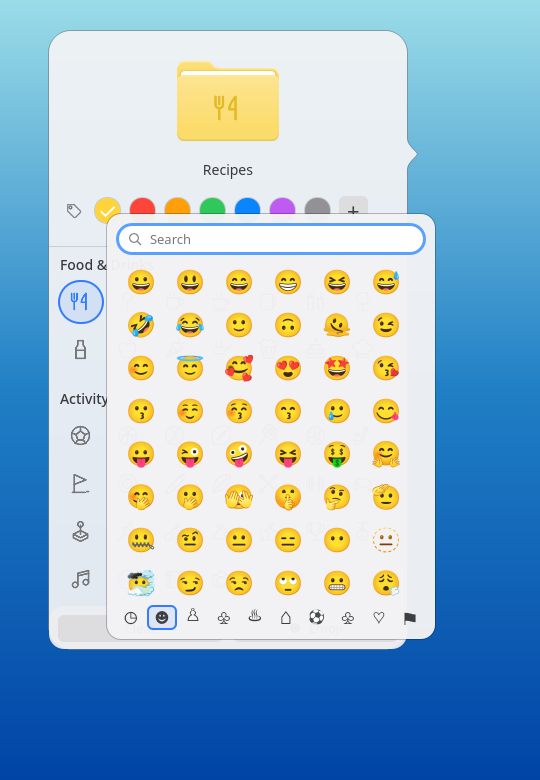
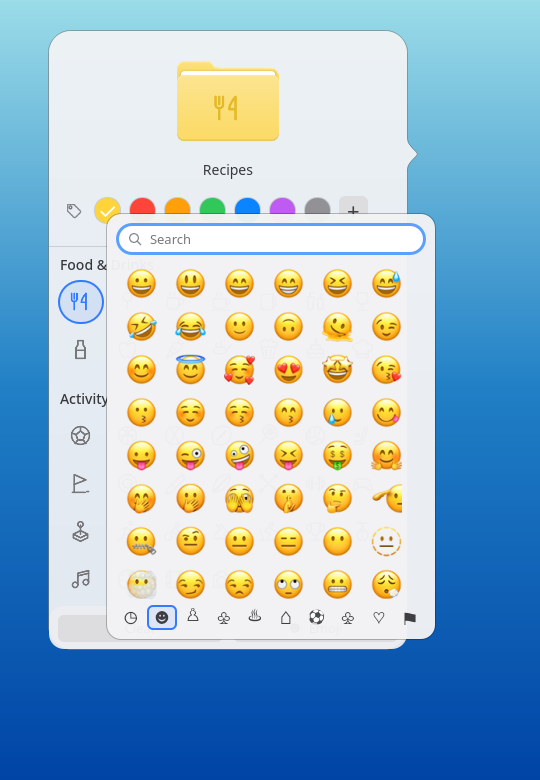
Use installed Apple emoji consistently in folder customization

diff --git a/config/quickshell/folder-customizer/FolderCustomizer.qml b/config/quickshell/folder-customizer/FolderCustomizer.qml
@@ -11,6 +11,8 @@ FocusScope {
     required property string folderPath
     property bool dark: false
     property string fontFamily: "sans-serif"
+    property string emojiFontFamily: Qt.fontFamilies().indexOf("Apple Color Emoji") >= 0 ? "Apple Color Emoji" : "Noto Color Emoji"
+    property url emojiFontUrl: ""
     property real pointerY: 124
     property bool tailOnLeft: false
     property real availableWidth: width + 58
@@ -85,6 +87,8 @@ FocusScope {
         event.accepted = true;
     }
 
+    // Loading the selected file also refreshes Qt's font database on config reload.
+    FontLoader { id: emojiTypeface; objectName: "folderEmojiTypeface"; source: panel.emojiFontUrl }
     FileView {
         id: recents
         path: (Quickshell.env("XDG_CONFIG_HOME") || (Quickshell.env("HOME") + "/.config")) + "/macshell/folder-emoji-recents.json"
@@ -116,6 +120,8 @@ FocusScope {
                         panel.symbolValue = state.settings.symbol; panel.emojiValue = state.settings.emoji;
                         panel.confirmedSettings = state.settings;
                         panel.iconUrl = state.icon; panel.symbols = state.symbols;
+                        panel.emojiFontFamily = state.emojiFontFamily || "Noto Color Emoji";
+                        panel.emojiFontUrl = state.emojiFontUrl || "";
                         panel.customized = state.customized;
                         const first = !panel.ready;
                         panel.ready = true;
@@ -335,7 +341,9 @@ FocusScope {
                     required property var modelData
                     width: 45; height: 40; subtle: true; dark: panel.dark
                     text: modelData[0]; hint: modelData[1]
-                    font.family: "Noto Color Emoji"; font.pixelSize: 28
+                    font.family: emojiTypeface.status === FontLoader.Ready ? emojiTypeface.name : panel.emojiFontFamily
+                    // Apple's Linux bitmap has smaller ink bounds than Noto at the same em size.
+                    font.pixelSize: panel.emojiFontFamily === "Apple Color Emoji" ? 40 : 28
                     onClicked: panel.applyEmoji(modelData[0])
                 }
                 Keys.onReturnPressed: if (count) panel.applyEmoji(panel.visibleEmoji[currentIndex][0])

diff --git a/config/quickshell/folder-customizer/tests/DesktopFolderTests.qml b/config/quickshell/folder-customizer/tests/DesktopFolderTests.qml
@@ -97,6 +97,10 @@ Window {
             tryVerify(function() { return loader.item && loader.item.ready; }, 5000);
             compare(loader.item.name, "Recipes");
             compare(loader.item.symbols.length, 71);
+            const font = findChild(loader.item, "folderEmojiTypeface");
+            verify(font !== null);
+            tryCompare(font, "status", FontLoader.Ready);
+            compare(font.name, loader.item.emojiFontFamily);
             verify(loader.x >= 0 && loader.x + loader.width <= surface.width);
             verify(loader.y >= 0 && loader.y + loader.height <= surface.height);
             verify(loader.height <= 620);

diff --git a/config/quickshell/folder-customizer/bin/folder_customizer.py b/config/quickshell/folder-customizer/bin/folder_customizer.py
@@ -9,6 +9,7 @@ import argparse
 import colorsys
 import errno
 import fcntl
+from functools import lru_cache
 import hashlib
 import io
 import json
@@ -101,6 +102,28 @@ def folder_svg(color):
     return template.replace('width="64" height="64"', 'width="256" height="256"')
 
 
+@lru_cache(maxsize=1)
+def emoji_font():
+    """Choose one usable color font for both the picker and exported artwork.
+
+    The Linux Apple font has a 96px bitmap strike; Noto has a 109px strike.
+    Fontconfig can silently substitute another family, so verify the match.
+    """
+    for family, size in (("Apple Color Emoji", 96), ("Noto Color Emoji", 109)):
+        try:
+            result = subprocess.run(["fc-match", "-f", "%{family[0]}\n%{file}", family],
+                                    capture_output=True, text=True, check=True, timeout=5)
+            matched, filename = result.stdout.strip().split("\n", 1)
+            if matched != family:
+                continue
+            path = Path(filename)
+            font = ImageFont.truetype(str(path), size)
+            return family, path, font
+        except (OSError, ValueError, subprocess.SubprocessError):
+            continue
+    return None
+
+
 def render(value):
     value = normalize(value)
     color = value["color"]
@@ -121,9 +144,10 @@ def render(value):
                             input=svg.encode(), capture_output=True, check=True, timeout=10)
     image = Image.open(io.BytesIO(result.stdout)).convert("RGBA").resize((256, 256), Image.Resampling.LANCZOS)
     if value["emoji"]:
-        result = subprocess.run(["fc-match", "-f", "%{file}", "Noto Color Emoji"],
-                                capture_output=True, text=True, check=True, timeout=5)
-        font = ImageFont.truetype(result.stdout, 109)
+        selected = emoji_font()
+        if selected is None:
+            raise ValueError("Install Apple Color Emoji or Noto Color Emoji to use emoji on folders.")
+        font = selected[2]
         emoji = Image.new("RGBA", (320, 160))
         draw = ImageDraw.Draw(emoji)
         draw.text((5, 0), value["emoji"], font=font, embedded_color=True)
@@ -139,7 +163,14 @@ def render(value):
 def artwork_path(value, version=ART_VERSION):
     value = normalize(value)
     data = Path(os.environ.get("XDG_DATA_HOME", Path.home() / ".local/share"))
-    digest = hashlib.sha256((json.dumps(value, sort_keys=True) + version).encode()).hexdigest()
+    identity = ""
+    if value["emoji"] and version != "art-v1":
+        selected = emoji_font()
+        if selected:
+            family, path, _ = selected
+            info = path.stat()
+            identity = f"{family}:{path}:{info.st_size}:{info.st_mtime_ns}"
+    digest = hashlib.sha256((json.dumps(value, sort_keys=True) + version + identity).encode()).hexdigest()
     return data / "macshell/folder-icons" / (digest + ".png")
 
 
@@ -190,8 +221,11 @@ class Folder:
     def status(self):
         state = read_state(self.path)
         value = normalize(state or {"color": default_color()})
+        selected = emoji_font()
         return dict(event="state", path=str(self.path), name=self.path.name or "/",
-                    settings=value, customized=bool(state), icon=artwork(value).as_uri(), symbols=symbols())
+                    settings=value, customized=bool(state), icon=artwork(value).as_uri(), symbols=symbols(),
+                    emojiFontFamily=selected[0] if selected else "Noto Color Emoji",
+                    emojiFontUrl=selected[1].as_uri() if selected else "")
 
     def repair_artwork(self):
         """Migrate saved folders to the new texture URI, retaining original icons."""

diff --git a/config/quickshell/folder-customizer/tests/test_folder_customizer.py b/config/quickshell/folder-customizer/tests/test_folder_customizer.py
@@ -5,7 +5,7 @@ import os
 from pathlib import Path
 import tempfile
 import unittest
-from unittest.mock import patch
+from unittest.mock import patch, sentinel
 
 SOURCE = Path(__file__).resolve().parents[1]
 spec = importlib.util.spec_from_file_location('folder_customizer', SOURCE / 'bin/folder_customizer.py')
@@ -25,8 +25,40 @@ class Metadata:
         self.value = value
 
 
+class EmojiFontTests(unittest.TestCase):
+    def setUp(self):
+        module.emoji_font.cache_clear()
+        self.addCleanup(module.emoji_font.cache_clear)
+
+    def match(self, family, path):
+        return module.subprocess.CompletedProcess([], 0, stdout=family + '\n' + path)
+
+    def test_apple_font_is_loaded_at_its_supported_bitmap_size(self):
+        with patch.object(module.subprocess, 'run', return_value=self.match('Apple Color Emoji', '/fonts/apple.ttf')), \
+                patch.object(module.ImageFont, 'truetype', return_value=sentinel.font) as load:
+            selected = module.emoji_font()
+        self.assertEqual(selected, ('Apple Color Emoji', Path('/fonts/apple.ttf'), sentinel.font))
+        load.assert_called_once_with('/fonts/apple.ttf', 96)
+
+    def test_missing_apple_font_uses_noto_without_mislabeling_it(self):
+        with patch.object(module.subprocess, 'run', return_value=self.match('Noto Color Emoji', '/fonts/noto.ttf')), \
+                patch.object(module.ImageFont, 'truetype', return_value=sentinel.font) as load:
+            selected = module.emoji_font()
+        self.assertEqual(selected[0], 'Noto Color Emoji')
+        load.assert_called_once_with('/fonts/noto.ttf', 109)
+
+    def test_unusable_apple_font_falls_back_to_noto(self):
+        with patch.object(module.subprocess, 'run', side_effect=[
+                self.match('Apple Color Emoji', '/fonts/apple.ttf'), self.match('Noto Color Emoji', '/fonts/noto.ttf')]), \
+                patch.object(module.ImageFont, 'truetype', side_effect=[OSError('invalid pixel size'), sentinel.font]):
+            selected = module.emoji_font()
+        self.assertEqual(selected[0], 'Noto Color Emoji')
+
+
 class FolderTests(unittest.TestCase):
     def setUp(self):
+        # Discover session fonts before isolating the cache's XDG_DATA_HOME.
+        module.emoji_font()
         self.temp = tempfile.TemporaryDirectory()
         self.addCleanup(self.temp.cleanup)
         self.root = Path(self.temp.name)
@@ -102,6 +134,19 @@ class FolderTests(unittest.TestCase):
         self.assertNotEqual(base.tobytes(), emoji.tobytes())
         family = module.render(dict(color='#0a84ff', emoji='👨👩👧👦'))
         self.assertEqual(family.size, (256, 256))
+
+    def test_emoji_font_changes_invalidate_only_emoji_artwork(self):
+        font = self.root / 'emoji.ttf'
+        font.write_bytes(b'first font')
+        with patch.object(module, 'emoji_font', return_value=('Apple Color Emoji', font, sentinel.font)):
+            value = dict(color='#0a84ff', emoji='😎')
+            first = module.artwork_path(value)
+            plain = module.artwork_path(dict(color='#0a84ff'))
+            legacy = module.artwork_path(value, 'art-v1')
+            font.write_bytes(b'updated emoji font')
+            self.assertNotEqual(module.artwork_path(value), first)
+            self.assertEqual(module.artwork_path(dict(color='#0a84ff')), plain)
+            self.assertEqual(module.artwork_path(value, 'art-v1'), legacy)
 
     def test_invalid_input_never_applies(self):
         for value in [dict(color='red; touch nope'), dict(color='#abc'), dict(symbol='unknown'),

diff --git a/docs/FOLDER-CUSTOMIZATION.md b/docs/FOLDER-CUSTOMIZATION.md
@@ -29,8 +29,15 @@ Dock. Shorter screens reduce the panel height further; the symbol list scrolls
 while Clear and Emoji stay in the footer above the Dock.
 Folder artwork uses the bundled [MacTahoe SVG](../icons/MacTahoe/places/scalable/folder.svg),
 under its [existing license](../icons/MacTahoe/COPYING), with original symbol
-pictograms. Emoji use the installed Noto Color Emoji font, and their drawing
-differs from Apple's emoji font.
+pictograms. Emoji prefer an installed, usable **Apple Color Emoji** font, with
+**Noto Color Emoji** as the fallback. The picker loads the same font file used
+by the artwork renderer. Font changes give emoji artwork a new cache URI.
+
+The optional [samuelngs/apple-emoji-ttf Linux build](https://github.com/samuelngs/apple-emoji-ttf)
+can be installed in `~/.local/share/fonts/`, followed by `fc-cache -f` and a
+MacShell reload. Use `AppleColorEmoji-Linux.ttf`; its 96px bitmap strike differs
+from Noto's 109px strike. The converted font is not bundled with this config;
+the upstream MIT license covers its code, not Apple's emoji artwork.
 
 ## Installation
 
